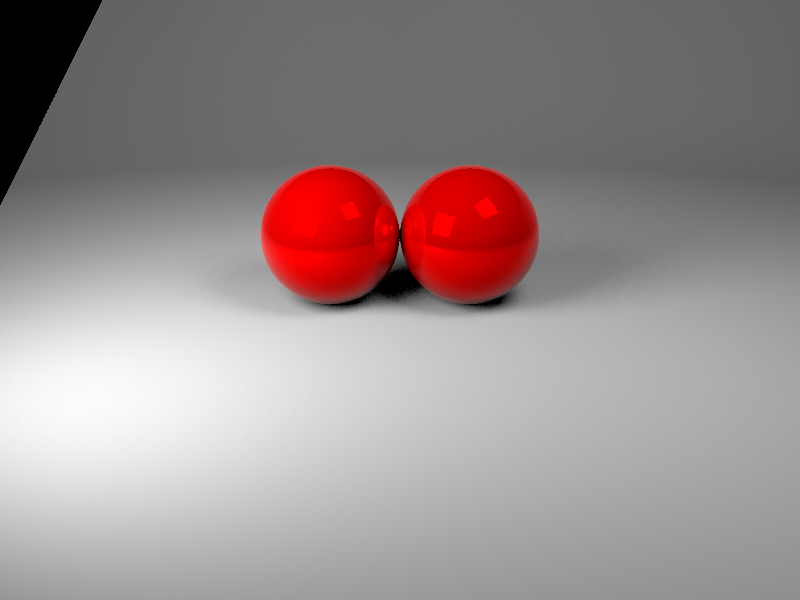
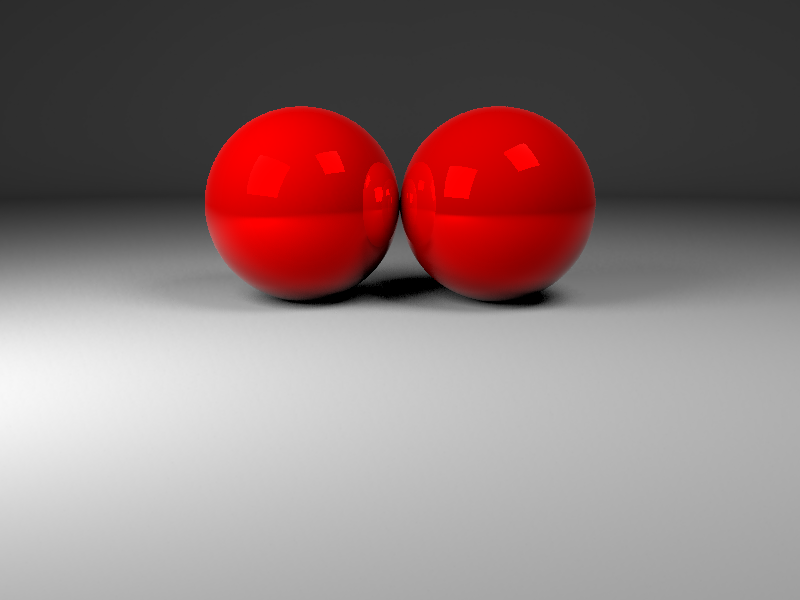
Updates to LightingRig

diff --git a/build/threeflow_extras.js b/build/threeflow_extras.js
@@ -208,19 +208,20 @@
         params = {};
       }
       THREE.Object3D.call(this);
-      params.backdropWall = params.backdropWall || 300;
-      params.backdropFloor = params.backdropFloor || 1000;
-      params.backdropCurve = params.backdropCurve || 50;
+      params.backdropWall = params.backdropWall || 600;
+      params.backdropFloor = params.backdropFloor || 1500;
+      params.backdropCurve = params.backdropCurve || 400;
+      params.backdropCurveSteps = params.backdropCurveSteps || 20;
       focus = new THREE.Vector3();
-      geometry = this.createBackdropGeometry(params.backdropWall, params.backdropFloor, params.backdropCurve);
+      geometry = this.createBackdropGeometry(params.backdropWall, params.backdropFloor, params.backdropCurve, params.backdropCurveSteps);
       material = new THREE.MeshLambertMaterial({
         color: 0xefefef,
-        ambient: 0x333333,
+        ambient: 0xffffff,
         side: THREE.DoubleSide
       });
       mesh = new THREE.Mesh(geometry, material);
       mesh.rotation.x = -(Math.PI / 2);
-      mesh.position.z = (params.backdropFloor + params.backdropCurve) / 2;
+      mesh.position.z = params.backdropFloor / 2;
       this.add(mesh);
       light1 = new THREEFLOW.AreaLight({
         radiance: 5,
@@ -240,13 +241,17 @@
 
     LightingRig.prototype = Object.create(THREE.Object3D.prototype);
 
-    LightingRig.prototype.createBackdropGeometry = function(wall, floor, curve) {
-      var detail, geometry, points;
+    LightingRig.prototype.createBackdropGeometry = function(wall, floor, curve, curveSteps) {
+      var PI2, angle, geometry, points, x, z, _i, _ref, _ref1, _ref2;
       points = [];
       points.push(new THREE.Vector3());
-      points.push(new THREE.Vector3(floor, 0, 0));
-      points.push(new THREE.Vector3(floor, 0, wall));
-      detail = .1;
+      PI2 = Math.PI / 2;
+      for (angle = _i = _ref = Math.PI, _ref1 = Math.PI - PI2, _ref2 = -(PI2 / curveSteps); _ref2 > 0 ? _i < _ref1 : _i > _ref1; angle = _i += _ref2) {
+        x = (Math.sin(angle) * curve) + floor;
+        z = (Math.cos(angle) * curve) + curve;
+        points.push(new THREE.Vector3(x, 0, z));
+      }
+      points.push(new THREE.Vector3(floor + curve, 0, curve + wall));
       geometry = new THREE.LatheGeometry(points, 12, 0, Math.PI);
       return geometry;
     };

diff --git a/examples/js/threeflow_extras.js b/examples/js/threeflow_extras.js
@@ -208,19 +208,20 @@
         params = {};
       }
       THREE.Object3D.call(this);
-      params.backdropWall = params.backdropWall || 300;
-      params.backdropFloor = params.backdropFloor || 1000;
-      params.backdropCurve = params.backdropCurve || 50;
+      params.backdropWall = params.backdropWall || 600;
+      params.backdropFloor = params.backdropFloor || 1500;
+      params.backdropCurve = params.backdropCurve || 400;
+      params.backdropCurveSteps = params.backdropCurveSteps || 20;
       focus = new THREE.Vector3();
-      geometry = this.createBackdropGeometry(params.backdropWall, params.backdropFloor, params.backdropCurve);
+      geometry = this.createBackdropGeometry(params.backdropWall, params.backdropFloor, params.backdropCurve, params.backdropCurveSteps);
       material = new THREE.MeshLambertMaterial({
         color: 0xefefef,
-        ambient: 0x333333,
+        ambient: 0xffffff,
         side: THREE.DoubleSide
       });
       mesh = new THREE.Mesh(geometry, material);
       mesh.rotation.x = -(Math.PI / 2);
-      mesh.position.z = (params.backdropFloor + params.backdropCurve) / 2;
+      mesh.position.z = params.backdropFloor / 2;
       this.add(mesh);
       light1 = new THREEFLOW.AreaLight({
         radiance: 5,
@@ -240,13 +241,17 @@
 
     LightingRig.prototype = Object.create(THREE.Object3D.prototype);
 
-    LightingRig.prototype.createBackdropGeometry = function(wall, floor, curve) {
-      var detail, geometry, points;
+    LightingRig.prototype.createBackdropGeometry = function(wall, floor, curve, curveSteps) {
+      var PI2, angle, geometry, points, x, z, _i, _ref, _ref1, _ref2;
       points = [];
       points.push(new THREE.Vector3());
-      points.push(new THREE.Vector3(floor, 0, 0));
-      points.push(new THREE.Vector3(floor, 0, wall));
-      detail = .1;
+      PI2 = Math.PI / 2;
+      for (angle = _i = _ref = Math.PI, _ref1 = Math.PI - PI2, _ref2 = -(PI2 / curveSteps); _ref2 > 0 ? _i < _ref1 : _i > _ref1; angle = _i += _ref2) {
+        x = (Math.sin(angle) * curve) + floor;
+        z = (Math.cos(angle) * curve) + curve;
+        points.push(new THREE.Vector3(x, 0, z));
+      }
+      points.push(new THREE.Vector3(floor + curve, 0, curve + wall));
       geometry = new THREE.LatheGeometry(points, 12, 0, Math.PI);
       return geometry;
     };

diff --git a/examples/js/extras_lighting_rig.js b/examples/js/extras_lighting_rig.js
@@ -27,7 +27,7 @@ window.onload = function() {
   scene.add(normals);
   scene.add(rig);
   scene.add(camera);
-  camera.position.set(0, 0, 200);
+  camera.position.set(0, 0, 4000);
   threeflow = new THREEFLOW.SunflowRenderer({
     pngPath: "examples/renders/extras_lighting_rig.png",
     scPath: "examples/renders/extras_lighting_rig.sc"
